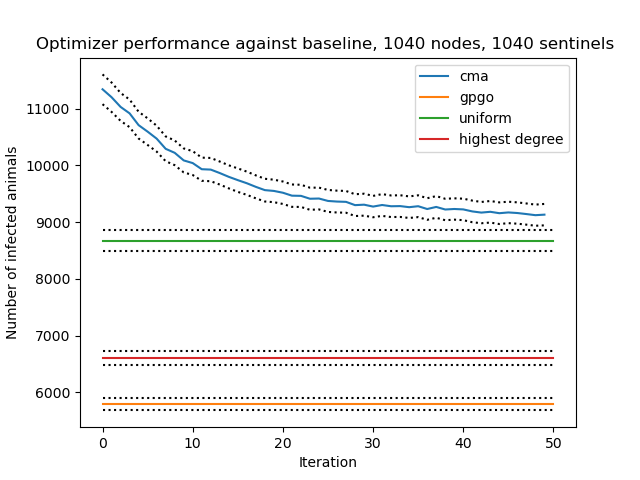
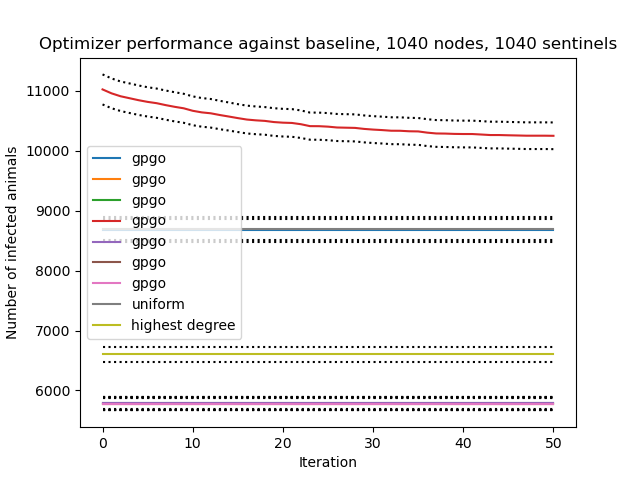
saving progres in utility scripts

diff --git a/src/bbo_create_combined_plots.py b/src/bbo_create_combined_plots.py
@@ -22,6 +22,10 @@ if __name__ == '__main__':
                         help="Optimizer parameter. Location where all the individual results"
                              " of the optimizers are saved to. "
                              "Default location is 'pyoptes/optimization/budget_allocation/blackbox_learning/plots/'")
+    parser.add_argument('--optimizer', default='all', choices=['cma', 'gpgo', 'all'],
+                        help="Optimizer parameter. Which optimizer to plot. "
+                                "Default is 'all'")
+
     # TODO not quite sure how to use this yet, maybe take a list as input?
     # parser.add_argument("--name_experiment",
     #                     help="The name of the folder where the results of the optimizer run are saved to.")
@@ -79,15 +83,6 @@ if __name__ == '__main__':
     parser.add_argument('--scale_total_budget', type=int, default=1, choices=[1, 4, 12],
                         help="SI-simulation parameter. Scales the total budget for SI-model. Default is 1.")
 
-    parser.add_argument('--delta_t_symptoms', type=int, default=60,
-                        help='Si-simulation parameter.. Sets the time (in days) after which an infection is detected'
-                             ' automatically. Default is 60 days')
-    parser.add_argument('--p_infection_by_transmission', type=float, default=0.5,
-                        help='Si-simulation parameter. The probability of how likely a trade animal '
-                             'infects other animals. Default is 0.5.')
-    parser.add_argument('--expected_time_of_first_infection', type=int, default=30,
-                        help='Si-simulation parameter. The expected time (in days) after which the first infection occurs. ')
-
     parser.add_argument('--mode_choose_sentinels', choices=['degree', 'capacity', 'transmission'], default='degree',
                         help='Sets the mode of how sentinels are chosen. ')
     parser.add_argument("--log_level", type=int, default=3, choices=range(1, 11), metavar="[1-10]",
@@ -116,45 +111,56 @@ if __name__ == '__main__':
         arguments_dict = vars(args)
 
         optimizer = hyperparameters['optimizer_hyperparameters']['optimizer']
+        max_iterations = hyperparameters['optimizer_hyperparameters']['max_iterations']
+
         network_type = hyperparameters['simulation_hyperparameters']['graph']
         n_runs = hyperparameters['simulation_hyperparameters']['n_runs']
         n_nodes = hyperparameters['simulation_hyperparameters']['n_nodes']
         sentinels = hyperparameters['simulation_hyperparameters']['sentinels']
-
         statistic = hyperparameters['simulation_hyperparameters']['statistic']
+        total_budget = hyperparameters['simulation_hyperparameters']['total_budget']
 
-    # # save date of the experiment for plotting
-    #     raw_data = load_raw_data(os.path.join(path_data, 'raw_data/'))
+        param_check = statistic == args.statistic and n_nodes == args.n_nodes \
+                      and sentinels == args.sentinels and max_iterations == args.max_iterations \
+                      and total_budget == args.scale_total_budget*args.n_nodes
+
+        if optimizer == args.optimizer and param_check \
+                or args.optimizer == 'all' and param_check:
+            # get the path to the experiment
+            path_experiment = os.path.split(experiment_params)[0]
+            # save date of the experiment for plotting
+            raw_data = load_raw_data(os.path.join(path_experiment, 'raw_data/'))
+
+            # compute the averages of the c_raw_data
+            optimizer_history, stderr_history = compute_average_otf_and_stderr(raw_data['list_best_solution_history'],
+                                                                               raw_data['list_stderr_history'],
+                                                                               n_runs)
+
+            baseline_mean, baseline_stderr = compute_average_otf_and_stderr(raw_data['list_baseline_otf'],
+                                                                            raw_data['list_baseline_otf_stderr'],
+                                                                            n_runs)
+
+            prior_mean, prior_stderr = compute_average_otf_and_stderr(raw_data['list_all_prior_tf'],
+                                                                      raw_data['list_all_prior_stderr'],
+                                                                      n_runs)
+
+            do = {'optimizer_history': optimizer_history,
+                  'stderr_history': stderr_history,
+                  'optimizer': optimizer}
+
+            data_optimizer.append(do)
     #
-    #     # compute the averages of the c_raw_data
-    #     optimizer_history, stderr_history = compute_average_otf_and_stderr(raw_data['list_best_solution_history'],
-    #                                                                        raw_data['list_stderr_history'],
-    #                                                                        n_runs)
-    #
-    #     baseline_mean, baseline_stderr = compute_average_otf_and_stderr(raw_data['list_baseline_otf'],
-    #                                                                     raw_data['list_baseline_otf_stderr'],
-    #                                                                     n_runs)
-    #
-    #     prior_mean, prior_stderr = compute_average_otf_and_stderr(raw_data['list_all_prior_tf'],
-    #                                                               raw_data['list_all_prior_stderr'],
-    #                                                               n_runs)
-    #
-    #     do = {'optimizer_history': optimizer_history,
-    #           'stderr_history': stderr_history,
-    #           'optimizer': optimizer}
-    #
-    #     data_optimizer.append(do)
-    #
-    # # as the baseline are taken from the last experiment in the loop, it is not advised to mix experiments with different
-    # # number of nodes
-    # # TODO add option to plot multiple baselines
-    # data_baseline = [{'baseline_mean': baseline_mean,
-    #                   'baseline_stderr': baseline_stderr,
-    #                   'name': 'uniform'},
-    #                  {'baseline_mean': prior_mean[1],
-    #                   'baseline_stderr': prior_stderr[1],
-    #                   'name': 'highest degree'}]
-    #
-    # plot_multiple_optimizer(args.path_plot, data_optimizer, data_baseline, n_nodes, sentinels)
+    print(np.shape(data_optimizer))
+    # as the baseline are taken from the last experiment in the loop, it is not advised to mix experiments with different
+    # number of nodes
+    # TODO add option to plot multiple baselines
+    data_baseline = [{'baseline_mean': baseline_mean,
+                      'baseline_stderr': baseline_stderr,
+                      'name': 'uniform'},
+                     {'baseline_mean': prior_mean[1],
+                      'baseline_stderr': prior_stderr[1],
+                      'name': 'highest degree'}]
+
+    plot_multiple_optimizer(args.path_plot, data_optimizer, data_baseline, args.n_nodes, args.sentinels)
 
 

diff --git a/src/pyoptes/optimization/budget_allocation/blackbox_learning/custom_GPGO.py b/src/pyoptes/optimization/budget_allocation/blackbox_learning/custom_GPGO.py
@@ -161,6 +161,8 @@ class GPGO:
         # TODO check which part here is the slowest
         # TODO maybe test different acqui-functions
         start_points_arr = np.array([self._sampleParam() for i in range(n_start)])
+
+        # save the test strategies to be able to visualize the trajectory of the optimizer, e.g how well the search space is covered
         if self.save_test_strategies:
             np.save(os.path.join(self.save_test_strategies_path, f'test_strategy_{self.n}'), start_points_arr)
             self.n += 1
@@ -169,6 +171,7 @@ class GPGO:
         f_best = np.empty((n_start,))
         if self.n_jobs == 1:
             for index, start_point in enumerate(start_points_arr):
+                # _acqWrapper is the function that calls the GP, therefore the NP has to be used here
                 res = minimize(self._acqWrapper, x0=start_point, method=method,
                                bounds=self.parameter_range)
                 x_best[index], f_best[index] = res.x, np.atleast_1d(res.fun)[0]

diff --git a/src/bbo_explore_target_function.py b/src/bbo_explore_target_function.py
@@ -1,5 +1,5 @@
 '''
-Compute the target function value
+Compute the target function value for different number of sentinels (either highest degree, transmissions, capacities)
 
 '''
 
@@ -15,11 +15,6 @@ from scipy.stats.mstats import mjci
 if __name__ == '__main__':
 
     parser = argparse.ArgumentParser()
-
-    parser.add_argument("--n_nodes", type=int, default=1040,
-                        help="Si-simulation parameter. "
-                             "Defines the number of nodes used by the SI-model to create a graph. "
-                             "Default value is 120 nodes.")
 
     parser.add_argument('--n_runs', type=int, default=100,
                         help='')
@@ -39,3 +34,4 @@ if __name__ == '__main__':
     args = parser.parse_args()
 
     #
+    nodes = [120, 1040, 57590]

diff --git a/src/bbo_explore_evaluation.py b/src/bbo_explore_evaluation.py
@@ -1,5 +1,5 @@
 '''
-Compute the target function value
+Compare optimizer outputs of the saved in the evaluation_output txt-file with the output in the plot
 
 '''
 
@@ -25,6 +25,13 @@ if __name__ == '__main__':
 
         with open(evaluation_output, 'r') as f:
             lines = f.readlines()
-        print(lines)
+        for l in lines:
+            print(l)
 
+        ratio = float(lines[1].split(':')[1])
+        baseline_otf, optimizer_stderr = lines[2].split(':')[1].split(', ')
+        optimizer_otf, optimizer_stderr = lines[3].split(':')[1].split(', ')
+        print(ratio)
+        print(baseline)
+        print(optimizer_otf, optimizer_stderr)
         break

diff --git a/src/pyoptes/optimization/budget_allocation/blackbox_learning/utils_plots.py b/src/pyoptes/optimization/budget_allocation/blackbox_learning/utils_plots.py
@@ -185,7 +185,7 @@ def plot_multiple_optimizer(path_experiment, data_optimizer, data_baseline, n_no
         plt.plot(range(len(optimizer_history)), b - baseline_stderr,
                  linestyle='dotted', color='black')
 
-    plt.title(f'Optimizer performance against baseline, {n_nodes} nodes, {sentinels} sentinels ')
+    plt.title(f'Optimizer performance against baseline, {n_nodes} nodes, {sentinels} sentinels')
     plt.xlabel('Iteration')
     plt.ylabel('Number of infected animals')
     plt.legend()

diff --git a/src/bbo_inspect_test_strategies.py b/src/bbo_inspect_test_strategies.py
@@ -1,5 +1,6 @@
 '''
-Creates
+Creates scatter plots showing the relationship between the nodes, their attributes and the allocated budget.
+
 '''
 
 from pyoptes import create_graph, scatter_plot, get_node_attributes

diff --git a/src/bbo_explore_optimizer.py b/src/bbo_explore_optimizer.py
@@ -1,5 +1,5 @@
 '''
-Compute the target function value
+Visualize how the optimizers move through the search space with each iteration.
 
 '''
 
